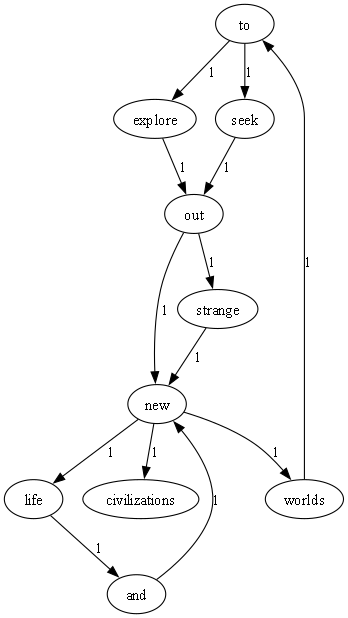
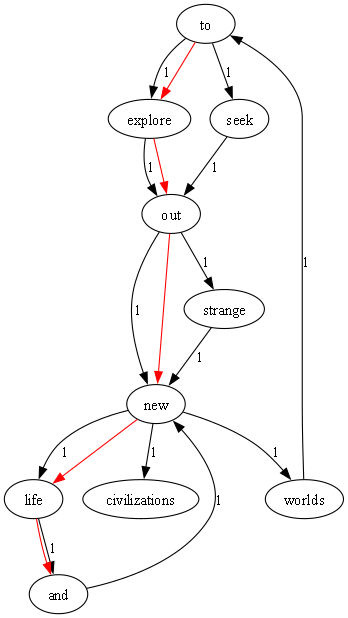
pathLength

diff --git a/src/main/Read.java b/src/main/Read.java
@@ -261,7 +261,7 @@ public class Read {
         }
         Collections.reverse(shortestPath); // 因为是从 word2 倒推回来的，需要翻转列表
         createDotGraph(dotFormat+shortestPathText,"有向图");
-        return String.join(" -> ", shortestPath);
+        return String.join(" -> ", shortestPath)+"   长度："+distances.get(word2);
     }
 
     public static void calcShortestPath(String word) {
